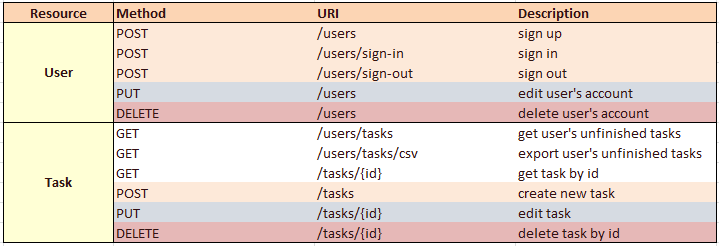
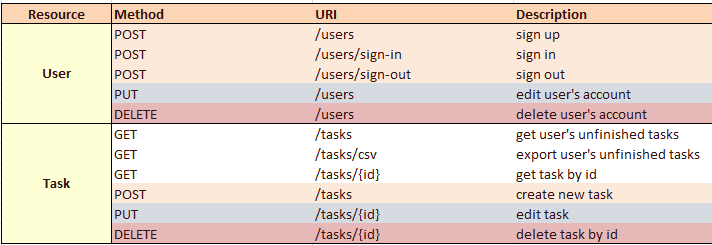
deleted some unused imports, updated endpoinda and er diagr

diff --git a/Task management app/taskmanagment/src/test/java/com/example/taskmanagment/UserControllerIntegrationTest.java b/Task management app/taskmanagment/src/test/java/com/example/taskmanagment/UserControllerIntegrationTest.java
@@ -1,19 +1,15 @@
 package com.example.taskmanagment;
 
-import com.example.taskmanagment.controller.UserController;
-import com.example.taskmanagment.service.UserService;
 import org.junit.jupiter.api.Test;
 import org.junit.jupiter.api.extension.ExtendWith;
-import org.mockito.InjectMocks;
-import org.mockito.Mock;
 import org.mockito.junit.jupiter.MockitoExtension;
 import org.springframework.beans.factory.annotation.Autowired;
 import org.springframework.boot.test.autoconfigure.web.servlet.AutoConfigureMockMvc;
 import org.springframework.boot.test.context.SpringBootTest;
 import org.springframework.http.MediaType;
+import org.springframework.mock.web.MockHttpSession;
 import org.springframework.test.web.servlet.MockMvc;
 import org.springframework.test.web.servlet.request.MockMvcRequestBuilders;
-import org.springframework.test.web.servlet.result.MockMvcResultHandlers;
 import org.springframework.test.web.servlet.result.MockMvcResultMatchers;
 
 @AutoConfigureMockMvc
@@ -78,27 +74,20 @@ public class UserControllerIntegrationTest {
 
     @Test
     public void testLogout() throws Exception {
-        //todo not working
-        // Login first
         String loginDataJson = "{\"email\":\"example@mail.com\",\"password\":\"strongPass*1\"}";
         mockMvc.perform(MockMvcRequestBuilders.post("/users/sign-in")
                         .contentType(MediaType.APPLICATION_JSON)
                         .content(loginDataJson))
-                .andExpect(MockMvcResultMatchers.status().isOk())
-                .andExpect(MockMvcResultMatchers.jsonPath("$.userName").exists())
-                .andExpect(MockMvcResultMatchers.jsonPath("$.email").exists())
-                .andExpect(MockMvcResultMatchers.jsonPath("$.id").isNumber())
                 .andReturn();
 
-        // Get the session from the previous login request
-        String session = mockMvc.perform(MockMvcRequestBuilders.get("/users/session"))
-                .andReturn().getRequest().getSession().getId();
+        MockHttpSession session = (MockHttpSession) mockMvc.perform(MockMvcRequestBuilders.get("/users/session"))
+                .andReturn().getRequest().getSession();
 
-        // Perform the logout with the obtained session
+        session.setAttribute("LOGGED_ID", 2L);
+
         mockMvc.perform(MockMvcRequestBuilders.post("/users/sign-out")
-                        .sessionAttr("org.springframework.mock.web.MockHttpSession", session)
+                        .session(session)
                         .contentType(MediaType.APPLICATION_JSON))
-                .andDo(MockMvcResultHandlers.print()) // Print the response for debugging
                 .andExpect(MockMvcResultMatchers.status().isOk())
                 .andExpect(MockMvcResultMatchers.content().string("Sign out was successful."));
     }

diff --git a/Task management app/taskmanagment/src/main/java/com/example/taskmanagment/service/UserService.java b/Task management app/taskmanagment/src/main/java/com/example/taskmanagment/service/UserService.java
@@ -3,8 +3,8 @@ package com.example.taskmanagment.service;
 import com.example.taskmanagment.model.DTOs.*;
 import com.example.taskmanagment.model.entities.User;
 import com.example.taskmanagment.model.exceptions.BadRequestException;
-import com.example.taskmanagment.model.exceptions.NotFoundException;
 import com.example.taskmanagment.model.exceptions.UnauthorizedException;
+import jakarta.transaction.Transactional;
 import org.springframework.beans.factory.annotation.Autowired;
 import org.springframework.security.crypto.bcrypt.BCryptPasswordEncoder;
 import org.springframework.stereotype.Service;
@@ -55,6 +55,7 @@ public class UserService extends AbstractService{
         userRepository.save(user);
         return mapper.map(user, UserWithoutPassDTO.class);
     }
+    @Transactional
     public void deleteAccount(final long loggedId, UserPassDTO passDTO) {
         final User user = findUserById(loggedId);
         checkEncodedPassword(passDTO.getPassword(), user.getPassword());

diff --git a/Task management app/taskmanagment/src/test/java/com/example/taskmanagment/UserServiceTest.java b/Task management app/taskmanagment/src/test/java/com/example/taskmanagment/UserServiceTest.java
@@ -4,14 +4,10 @@ import static com.example.taskmanagment.Util.*;
 import static org.junit.jupiter.api.Assertions.*;
 import static org.mockito.ArgumentMatchers.any;
 import static org.mockito.Mockito.*;
-
-import java.util.Collections;
 import java.util.Optional;
-
 import com.example.taskmanagment.model.DTOs.*;
 import com.example.taskmanagment.model.entities.User;
 import com.example.taskmanagment.model.exceptions.BadRequestException;
-import com.example.taskmanagment.model.exceptions.NotFoundException;
 import com.example.taskmanagment.model.exceptions.UnauthorizedException;
 import com.example.taskmanagment.model.repositories.UserRepository;
 import com.example.taskmanagment.service.UserService;

diff --git a/Task management app/taskmanagment/src/test/java/com/example/taskmanagment/TaskControllerIntegrationTest.java b/Task management app/taskmanagment/src/test/java/com/example/taskmanagment/TaskControllerIntegrationTest.java
@@ -18,6 +18,7 @@ public class TaskControllerIntegrationTest {
 
     @Test
     public void testCreateTask() throws Exception {
+        //todo check
         // Login first
         String loginDataJson = "{\"email\":\"example@mail.com\",\"password\":\"strongPass*1\"}";
         mockMvc.perform(MockMvcRequestBuilders.post("/users/sign-in")
@@ -45,4 +46,3 @@ public class TaskControllerIntegrationTest {
                 .andExpect(MockMvcResultMatchers.jsonPath("$.isFinished").value(false));
     }
 }
-

diff --git a/Task management app/taskmanagment/src/main/java/com/example/taskmanagment/TaskmanagementApplication.java b/Task management app/taskmanagment/src/main/java/com/example/taskmanagment/TaskmanagementApplication.java
@@ -7,10 +7,10 @@ import org.springframework.context.annotation.Bean;
 import org.springframework.security.crypto.bcrypt.BCryptPasswordEncoder;
 
 @SpringBootApplication
-public class TaskmanagmentApplication {
+public class TaskmanagementApplication {
 
 	public static void main(String[] args) {
-		SpringApplication.run(TaskmanagmentApplication.class, args);
+		SpringApplication.run(TaskmanagementApplication.class, args);
 	}
 	@Bean
 	public ModelMapper modelMapper(){

diff --git a/Task management app/taskmanagment/src/main/java/com/example/taskmanagment/controller/TaskController.java b/Task management app/taskmanagment/src/main/java/com/example/taskmanagment/controller/TaskController.java
@@ -5,7 +5,6 @@ import com.example.taskmanagment.model.DTOs.EditTaskDTO;
 import com.example.taskmanagment.model.DTOs.TaskInfoDTO;
 import com.example.taskmanagment.model.DTOs.TaskWithoutOwnerDTO;
 import com.example.taskmanagment.service.TaskService;
-
 import jakarta.servlet.http.HttpSession;
 import jakarta.validation.Valid;
 import org.springframework.beans.factory.annotation.Autowired;

diff --git a/Task management app/taskmanagment/src/main/java/com/example/taskmanagment/service/TaskService.java b/Task management app/taskmanagment/src/main/java/com/example/taskmanagment/service/TaskService.java
@@ -29,6 +29,9 @@ public class TaskService extends AbstractService{
         if (createData.getPriority() != null ) {
             task.setPriority(createData.getPriority());
         }
+        else{
+            task.setPriority(2);
+        }
         task.setUser(user);
         task.setIsFinished(false);
         taskRepository.save(task);

diff --git a/Task management app/taskmanagment/src/main/java/com/example/taskmanagment/model/DTOs/CreateTaskDTO.java b/Task management app/taskmanagment/src/main/java/com/example/taskmanagment/model/DTOs/CreateTaskDTO.java
@@ -18,7 +18,6 @@ public class CreateTaskDTO {
     private String title;
     @Size(max = 2000, message = "Description can't be longer than 2000 characters")
     private String description;
-//    private Boolean isFinished;
     @Range(min = 1, max = 3, message = "Priority must be between 1 and 3")
     private Integer priority;
 }

diff --git a/Task management app/taskmanagment/src/test/java/com/example/taskmanagment/TaskServiceTest.java b/Task management app/taskmanagment/src/test/java/com/example/taskmanagment/TaskServiceTest.java
@@ -111,7 +111,7 @@ public class TaskServiceTest {
     }
 
     @Test
-    public void getUserTasksSuccessful() {
+    public void getUserUnfinishedTasksSuccessful() {
         int page = 1;
         int size = 10;
         TaskWithoutOwnerDTO taskWithoutOwnerDTO = new TaskWithoutOwnerDTO(2, TITLE, DESCRIPTION,1);

diff --git a/Task management app/taskmanagment/src/main/java/com/example/taskmanagment/model/repositories/UserRepository.java b/Task management app/taskmanagment/src/main/java/com/example/taskmanagment/model/repositories/UserRepository.java
@@ -1,6 +1,5 @@
 package com.example.taskmanagment.model.repositories;
 
-import com.example.taskmanagment.model.entities.Task;
 import com.example.taskmanagment.model.entities.User;
 import org.springframework.data.jpa.repository.JpaRepository;
 import org.springframework.stereotype.Repository;

diff --git a/Task management app/taskmanagment/src/main/java/com/example/taskmanagment/model/DTOs/EditUserDTO.java b/Task management app/taskmanagment/src/main/java/com/example/taskmanagment/model/DTOs/EditUserDTO.java
@@ -1,7 +1,6 @@
 package com.example.taskmanagment.model.DTOs;
 
 import jakarta.validation.constraints.Email;
-import jakarta.validation.constraints.NotBlank;
 import jakarta.validation.constraints.Pattern;
 import jakarta.validation.constraints.Size;
 import lombok.AllArgsConstructor;

diff --git a/Task management app/taskmanagment/src/main/java/com/example/taskmanagment/model/DTOs/EditTaskDTO.java b/Task management app/taskmanagment/src/main/java/com/example/taskmanagment/model/DTOs/EditTaskDTO.java
@@ -1,6 +1,5 @@
 package com.example.taskmanagment.model.DTOs;
 
-import jakarta.validation.constraints.NotBlank;
 import jakarta.validation.constraints.Size;
 import lombok.AllArgsConstructor;
 import lombok.Getter;
